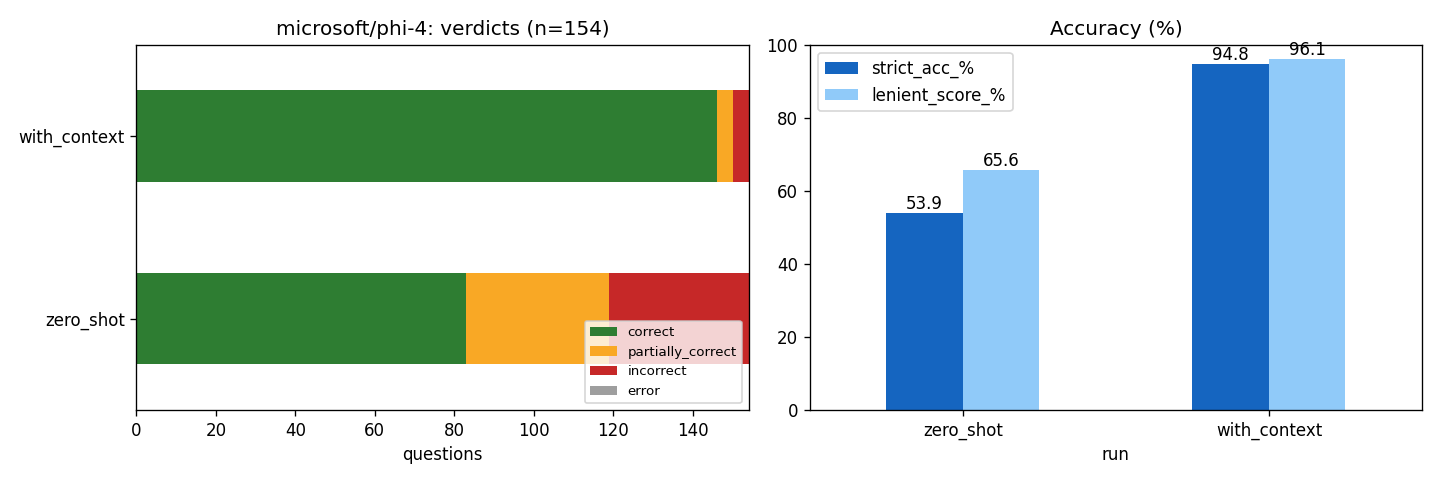
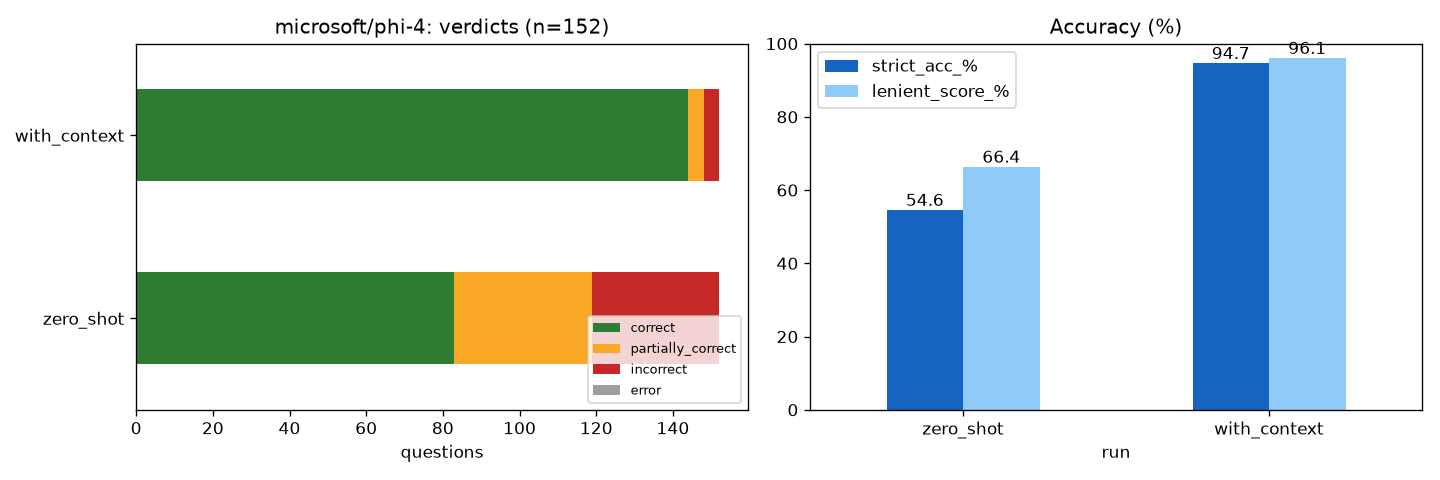
Updated AI eval

diff --git a/AI Eval/README.md b/AI Eval/README.md
@@ -27,19 +27,6 @@ For each answer, the examiner lists the key facts in the reference answer, check
 | partially_correct | 0.5 | Covers some key facts, contradicts none |
 | incorrect | 0.0 | Covers no key fact, or contradicts the reference |
 
-## Metrics in the report
-
-| Metric | Meaning |
-|---|---|
-| **Strict accuracy** | Share of answers graded `correct`. Partial answers count as wrong. |
-| **Lenient score** | Average score, with `partially_correct` counting as half. |
-| **Change (points)** | With-context score minus zero-shot score, in percentage points. The size of this gain is how much the document helps. |
-| **95% CI** | Bootstrap confidence interval for the lenient score change. If it does not include 0, the improvement is not just noise. |
-| **Improved / got worse / unchanged** | Number of questions whose score went up, went down, or stayed the same with context. |
-| **Verdict transitions** | Table of zero-shot verdict (rows) against with-context verdict (columns) for each question. |
-| **Retrieval hit rate** | Share of questions where the chunk the question was written from is among the retrieved chunks. A miss means the student probably did not get the answer in its context. |
-| **Score by retrieval outcome** | Lenient scores split by hit and miss. A big gap means retrieval, not the student, is holding back the with-context score. |
-
 ## Caveats
 
 - The examiner writes the questions and the reference answers, so scores are only as good as its question writing and grading. The gap between the two runs is more reliable than the absolute scores.
@@ -47,16 +34,16 @@ For each answer, the examiner lists the key facts in the reference answer, check
 
 ## Using the results: guideline step in Hermes (hackathon demo)
 
-On the ADHD teaching guide, phi-4 scored 65.6% zero-shot and 96.1% with context (+30.5 points, 95% CI +24.0 to +37.0). Its own knowledge of teaching students with learning difficulties is unreliable, but it is accurate when given a guideline document. So the content agents in [Hermes Agent](https://hermes-agent.nousresearch.com/docs/) get one extra step before they write anything: gather guidelines for the student's described difficulty.
+On the ADHD teaching guide, phi-4 scored 66.4% zero-shot and 96.1% with context (+29.7 points, 95% CI +23.0 to +36.2). Its own knowledge of teaching students with learning difficulties is unreliable, but it is accurate when given a guideline document. So the content agents in [Hermes Agent](https://hermes-agent.nousresearch.com/docs/) get one extra step before they write anything: gather guidelines for the student's described difficulty.
 
 Published research shows the same effect. From the introduction of Shuster et al. (Meta AI), [Retrieval Augmentation Reduces Hallucination in Conversation](https://aclanthology.org/2021.findings-emnlp.320), Findings of EMNLP 2021:
 
 > "We show through automatic and human evaluations that standard (non-retrieval augmented) large language models indeed suffer from hallucination, whereas our best models substantially curtail the issue, reducing hallucinated responses by over 60%. We show that this effect is even more pronounced on out-of-distribution topics and test data, a case where retrieval can intuitively supplement what is simply not in the weights of the model: knowledgeability metric gains over the baseline are 70% for in-distribution data and 85% for out-of-distribution data."
 
 ```
-student: "I can't focus on long texts"
+student: "I can't focus on long texts" (or a result of a questionnare)
   -> 1. describe the need (no diagnosis)
-  -> 2. get guidelines: web search on trusted sites
+  -> 2. get guidelines: web search on trusted/known sites
   -> 3. generate the content following the guidelines
   -> 4. check the draft against the guidelines and safety rules
 ```
@@ -97,7 +84,7 @@ metadata:
 These go in `AGENTS.md` rather than `SOUL.md` because sub-agents only receive `AGENTS.md`.
 
 ```markdown
-- Describe needs, never diagnose ("you have ADHD" is not allowed).
+- Describe needs, never diagnose ("you have ADHD" for example is not allowed).
 - No medical, medication, or therapy advice.
 - Keep content age-appropriate and encouraging.
 - Use only guidelines from trusted sources, and cite them.

diff --git a/AI Eval/benchmark_outputs_llm/benchmark_report_200_c1500_v2_phi-4.md b/AI Eval/benchmark_outputs_llm/benchmark_report_200_c1500_v2_phi-4.md
@@ -3,25 +3,25 @@
 - **Document:** TEACHING CHILDREN WITH ATTENTION DEFICIT HYPERACTIVITY DISORDER.pdf (36 pages, 48 chunks)
 - **Student (answering):** microsoft/phi-4
 - **Examiner (question writing and grading):** Qwen/Qwen3-8B
-- **With-context run:** top 8 retrieved chunks (BAAI/bge-small-en-v1.5), hit rate 94.8%
-- **Questions:** 154
+- **With-context run:** top 8 retrieved chunks (BAAI/bge-small-en-v1.5), hit rate 94.7%
+- **Questions:** 152 (questions 0 and 1 removed: they asked about the document's staff and order phone number, not the subject)
 
 ## Summary
 
 | run          |   n |   correct |   partial |   incorrect |   errors |   strict_acc_% |   lenient_score_% |
 |:-------------|----:|----------:|----------:|------------:|---------:|---------------:|------------------:|
-| zero_shot    | 154 |        83 |        36 |          35 |        0 |           53.9 |              65.6 |
-| with_context | 154 |       146 |         4 |           4 |        0 |           94.8 |              96.1 |
+| zero_shot    | 152 |        83 |        36 |          33 |        0 |           54.6 |              66.4 |
+| with_context | 152 |       144 |         4 |           4 |        0 |           94.7 |              96.1 |
 
-- Strict accuracy change: **+40.9 points**
-- Lenient score change: **+30.5 points** (95% CI +24.0 to +37.0)
-- Improved: 67 | Got worse: 4 | Unchanged: 83
+- Strict accuracy change: **+40.1 points**
+- Lenient score change: **+29.7 points** (95% CI +23.0 to +36.2)
+- Improved: 65 | Got worse: 4 | Unchanged: 83
 
 ## Verdict transitions (rows: zero-shot, columns: with context)
 
 | verdict_zero_shot   |   correct |   incorrect |   partially_correct |   All |
 |:--------------------|----------:|------------:|--------------------:|------:|
 | correct             |        79 |           1 |                   3 |    83 |
-| incorrect           |        32 |           3 |                   0 |    35 |
+| incorrect           |        30 |           3 |                   0 |    33 |
 | partially_correct   |        35 |           0 |                   1 |    36 |
-| All                 |       146 |           4 |                   4 |   154 |
+| All                 |       144 |           4 |                   4 |   152 |
